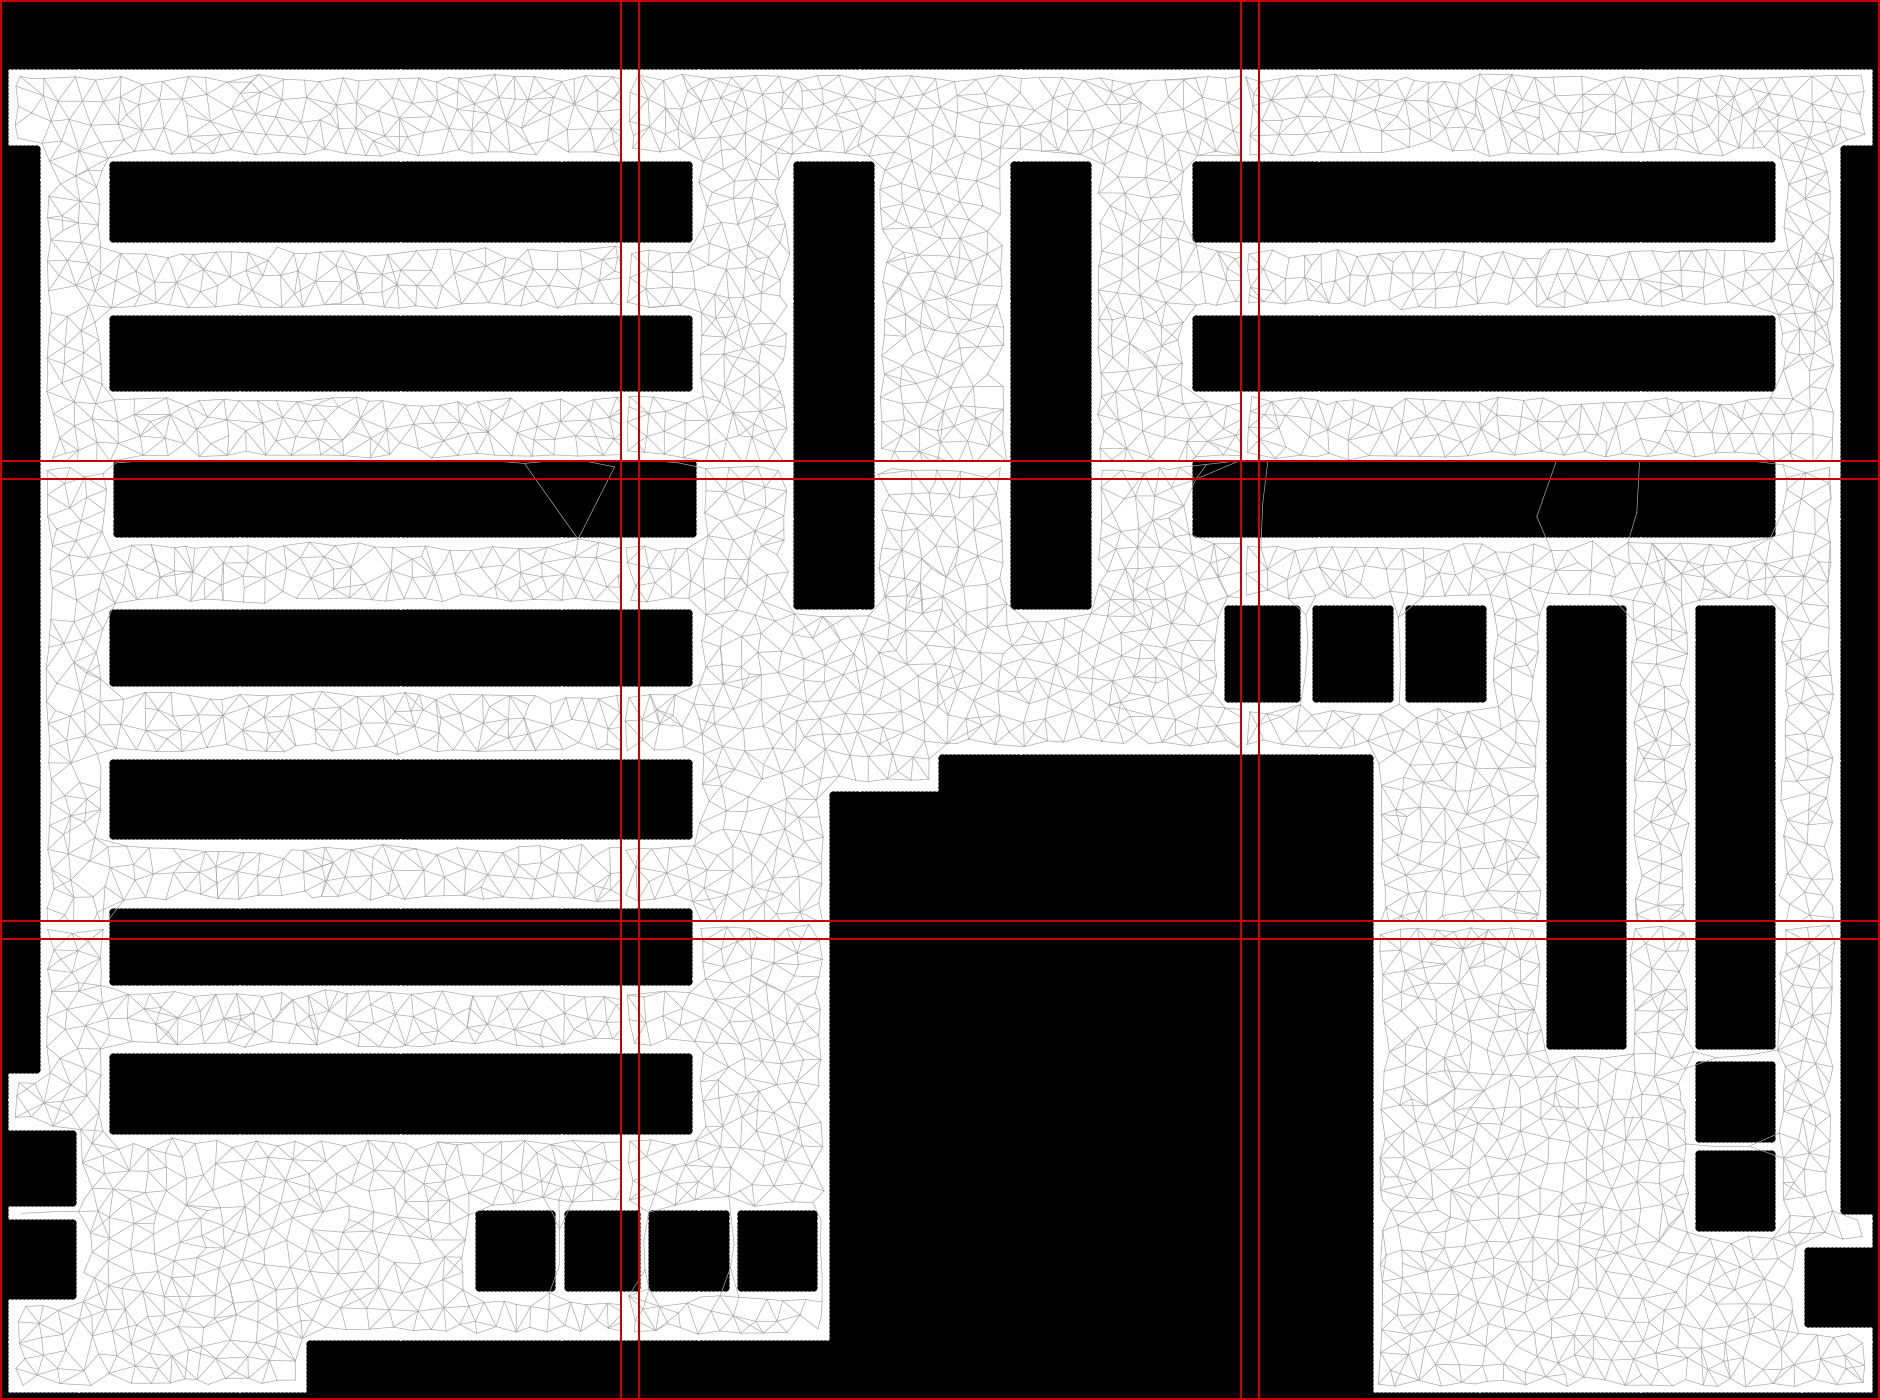
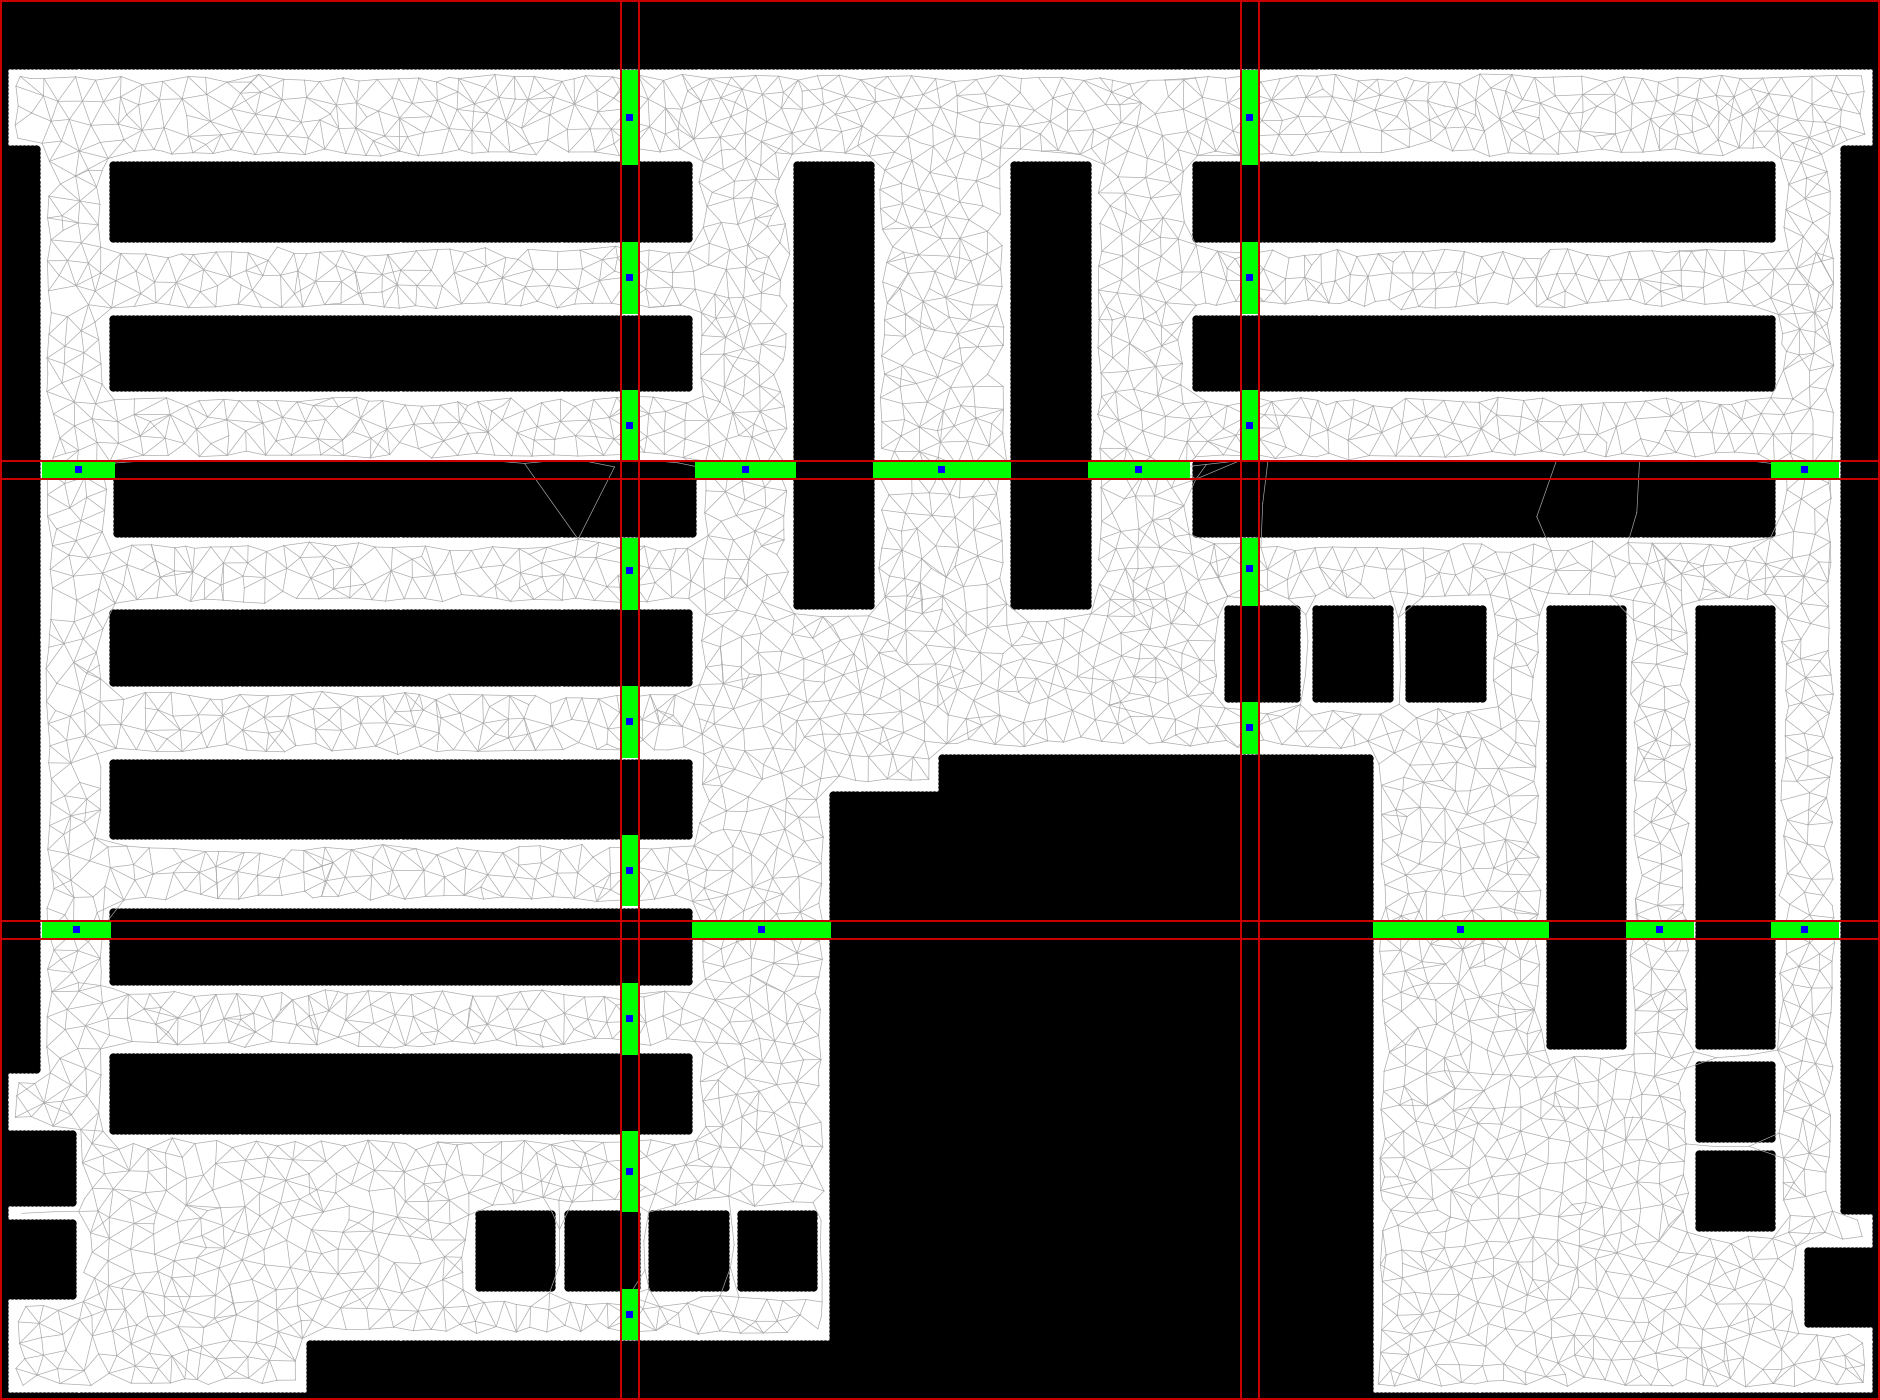
Update

diff --git a/WaypointGraphs/GrowingNeuralGas.py b/WaypointGraphs/GrowingNeuralGas.py
@@ -95,8 +95,10 @@ def save(filepath, fig=None):
         fig = plt.gcf()
 
 
-#   Image borders are red
-def stitchGNGImagesToGrid(output_filename, subview_directory, rows, cols, row_overlap, col_overlap):
+# Valid transition regions are green
+#   Transition points are blue
+#   Camera fields of view borders are red
+def stitchGNGImagesToGrid(camera_transition_regions, camera_transition_points, output_filename, subview_directory, rows, cols, row_overlap, col_overlap):
     subview_directory = subview_directory
 
     subview_rows = rows
@@ -132,6 +134,29 @@ def stitchGNGImagesToGrid(output_filename, subview_directory, rows, cols, row_ov
             offset_y = row * (subview_height - row_overlap_pixels)
 
             grid.paste(subview_list[subview_index], (offset_x, offset_y))
+
+
+
+    # Draw transition regions
+    transition_region_color = (0,255,0) # Green
+    for transition_regions in camera_transition_regions:
+        for border_regions in transition_regions:
+            for region in border_regions:
+                for x,y in region:
+                    grid.putpixel((x, y), transition_region_color)
+
+
+    # Draw transition points
+    transition_point_marking_radius = 3
+    transition_point_color = (0,0,255) # Blue
+    for transition_points in camera_transition_points:
+        for border_transition_points in transition_points:
+            for x,y in border_transition_points:
+                # Draw centroid marking
+                centroid = (int(x), int(y))
+                for square_x in range(centroid[0]-transition_point_marking_radius, centroid[0]+transition_point_marking_radius+1):
+                    for square_y in range(centroid[1]-transition_point_marking_radius, centroid[1]+transition_point_marking_radius+1):
+                        grid.putpixel((square_x, square_y), transition_point_color) # Blue
 
 
     # Add borders for each subview such that overlaps can be seen
@@ -176,9 +201,10 @@ def FindCentroid(region):
 
 
 
-#   Possible transition regions in overlapping regions are yellow
+# Possible transition regions in overlapping regions are yellow
 #   Valid transition regions are green
 #   Transition points are blue
+#   Camera fields of view borders are red
 def FindTransitionRegions(camera_transition_regions, camera_transition_points, output_filename, subview_directory, rows, cols, row_overlap, col_overlap):
     subview_directory = subview_directory
 
@@ -671,7 +697,7 @@ for epoch in range(20):
         os.makedirs(environment_waypoint_image_directory)
 
     environment_waypoint_image_filename = environment_waypoint_image_directory + '/Epoch_' + '{0:0=2d}'.format(epoch) + '_environment.png'
-    stitchGNGImagesToGrid(environment_waypoint_image_filename, current_epoch_directory, 3, 3, 20, 20)
+    stitchGNGImagesToGrid(camera_transition_regions, camera_transition_points, environment_waypoint_image_filename, current_epoch_directory, 3, 3, 20, 20)
 
 
 
